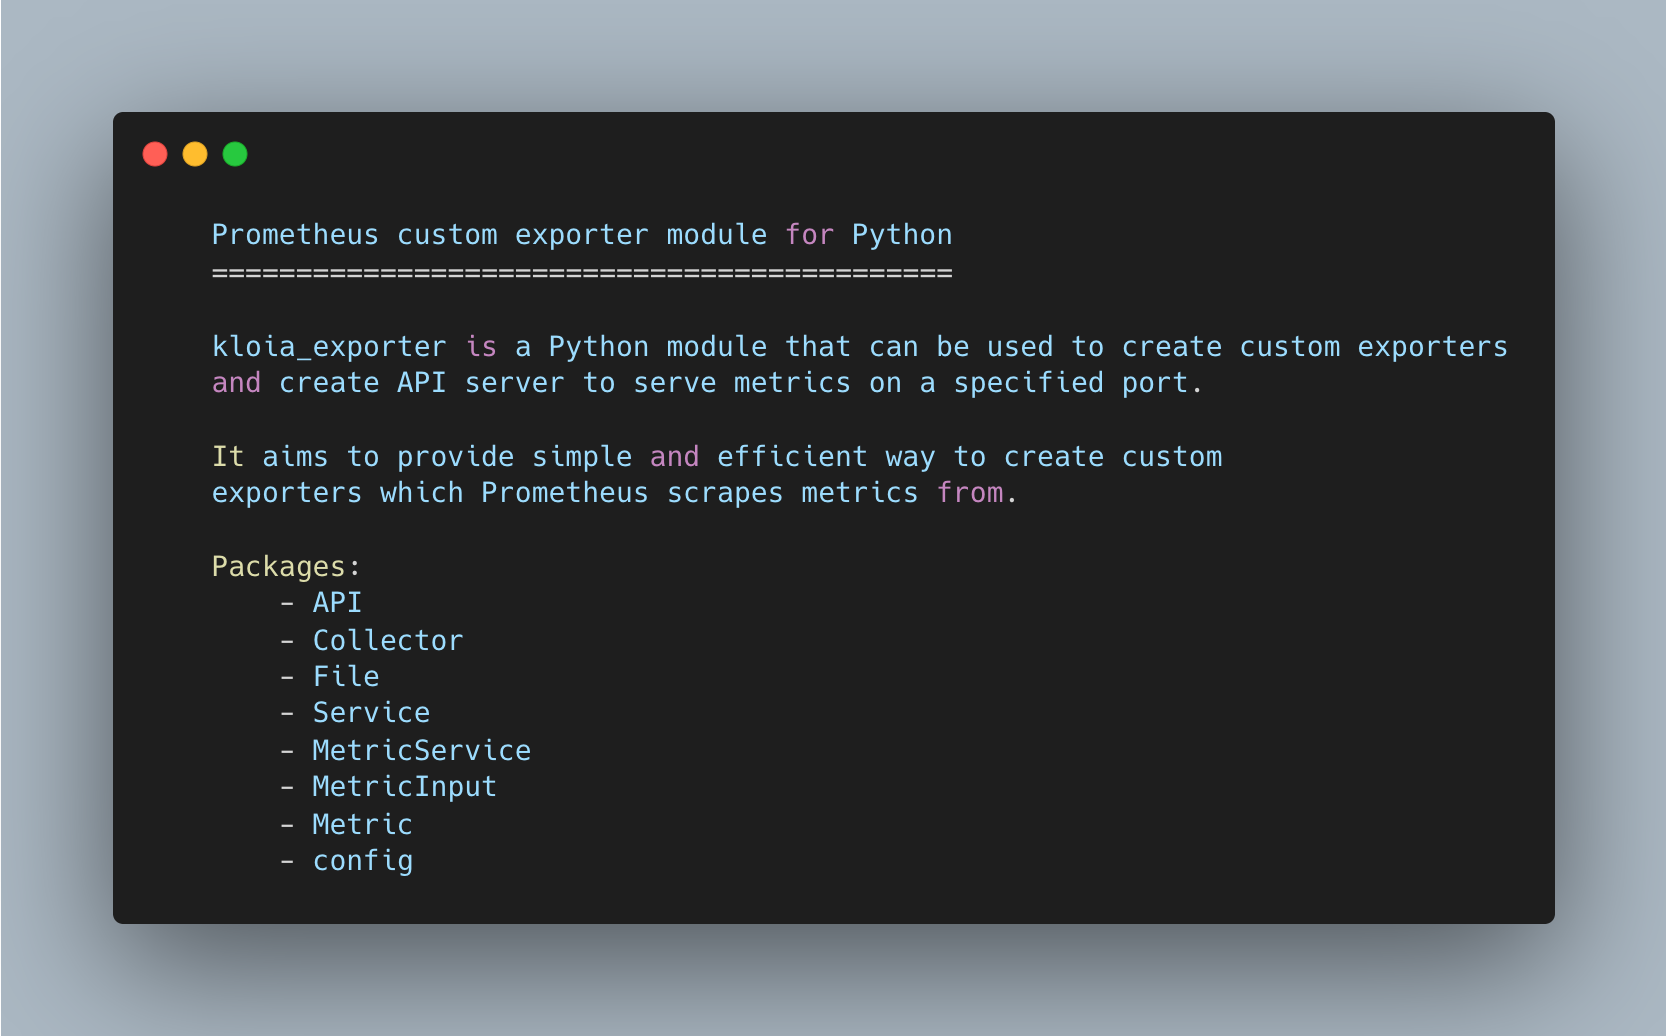
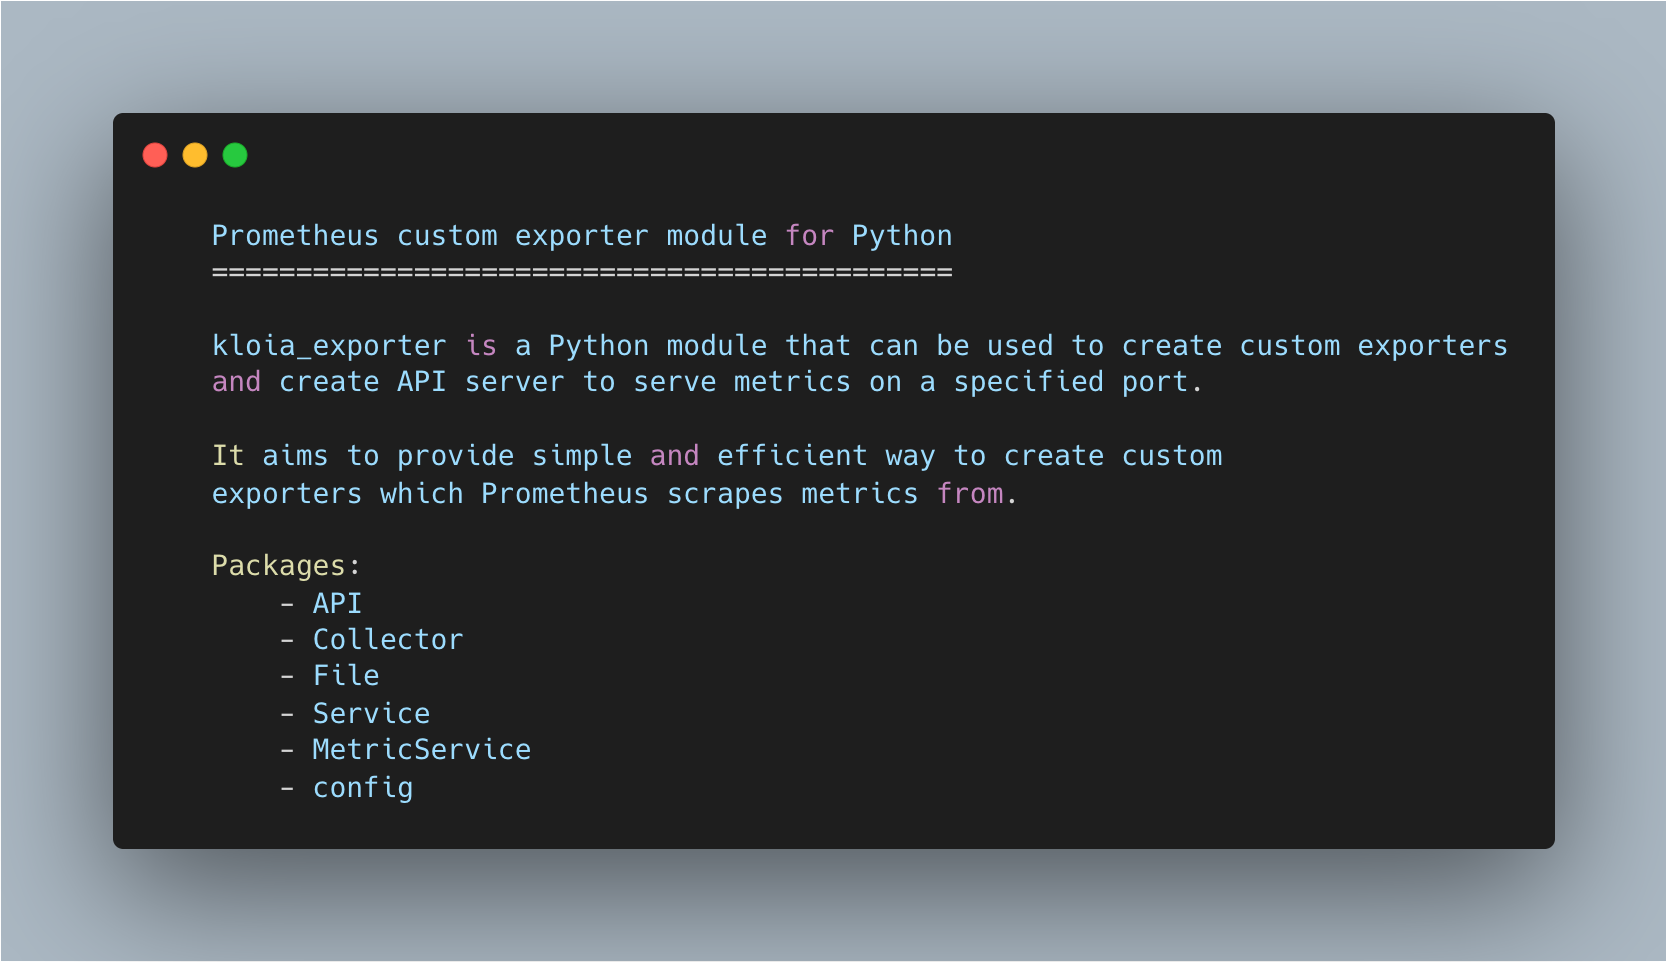
fix: change metric by time

diff --git a/kloia_exporter/collector.py b/kloia_exporter/collector.py
@@ -1,5 +1,5 @@
 import time
-from prometheus_client.core import REGISTRY
+from prometheus_client.core import REGISTRY, GaugeMetricFamily
 from prometheus_client import start_http_server
 
 
@@ -14,14 +14,12 @@ class API():
 
             Usage Example:
                 metric_inputs = [
-                    MetricInput(
-                        metricName="metricName",
-                        helpText="helpText",
-                        labels=["labelKey"],
-                        metrics=[
-                            Metric(labelValues=["labelValue"], value=10)
-                        ]
-                    )
+                    {
+                        "metricName": "metricName",
+                        "helpText": "helpText",
+                        "labels": ["labelKey"],
+                        "collect": lambda metricFamily: metricFamily.add_metric( ["labelValue"], 0 )
+                    }
                ]
                 API(8080, metric_inputs).listen()
 
@@ -51,15 +49,12 @@ class Collector(object):
 
             Usage Example:
                 metric_inputs = [
-                    MetricInput(
-                        metricName="metricName",
-                        helpText="helpText",
-                        labels=["labelKey"],
-                        metrics=[
-                            Metric(labelValues=["labelValue"], value=10)
-                        ]
-                    )
-
+                    {
+                        "metricName": "metricName",
+                        "helpText": "helpText",
+                        "labels": ["labelKey"],
+                        "collect": lambda metricFamily: metricFamily.add_metric( ["labelValue"], 0 )
+                    }
                ]
                 Collector(metric_inputs)
 
@@ -73,4 +68,6 @@ class Collector(object):
 
     def collect(self):
         for metric_input in self.metric_inputs:
-            yield metric_input.get_metric()
+            metricFamily = GaugeMetricFamily(metric_input["metricName"], metric_input["helpText"], labels=metric_input["labels"])
+            metric_input["collect"](metricFamily)
+            yield metricFamily

diff --git a/example/ansible/roles/test_exporter/files/lib/exporter.py b/example/ansible/roles/test_exporter/files/lib/exporter.py
@@ -1,18 +1,13 @@
 #!/usr/bin/env python
-from kloia_exporter import API, MetricInput, Metric
+from kloia_exporter import API
 
 metric_inputs = [
-    MetricInput(
-        metricName="metricName",
-        helpText="helpText",
-        labels=["labelsKey"],
-        metrics=[
-            Metric(
-                labelValues=["labelValue"],
-                value=10
-            )
-        ]
-    )
+    {
+        "metricName": "metricName",
+        "helpText": "helpText",
+        "labels": ["labelKey"],
+        "collect": lambda metricFamily: metricFamily.add_metric( ["labelValue"], 10 )
+    }
 ]
 
 API(9000, metric_inputs=metric_inputs).listen()

diff --git a/example/docker/exporter.py b/example/docker/exporter.py
@@ -1,18 +1,13 @@
 #!/usr/bin/env python
-from kloia_exporter import API, MetricInput, Metric
+from kloia_exporter import API
 
 metric_inputs = [
-    MetricInput(
-        metricName="metricName",
-        helpText="helpText",
-        labels=["labelsKey"],
-        metrics=[
-            Metric(
-                labelValues=["labelValue"],
-                value=10
-            )
-        ]
-    )
+    {
+        "metricName": "metricName",
+        "helpText": "helpText",
+        "labels": ["labelKey"],
+        "collect": lambda metricFamily: metricFamily.add_metric( ["labelValue"], 10 )
+    }
 ]
 
 API(9000, metric_inputs=metric_inputs).listen()

diff --git a/kloia_exporter/test_collector.py b/kloia_exporter/test_collector.py
@@ -1,15 +1,14 @@
 from unittest import mock, TestCase
-from kloia_exporter.metricInput import MetricInput, Metric
 from kloia_exporter.collector import Collector
 
 dummy_data = {
     "metric_inputs": [
-        MetricInput(
-            metricName="metricName",
-            helpText="helpText",
-            labels=["labelKey"],
-            metrics=[Metric(["labelValue"], 10)]
-        )
+        {
+            "metricName": "metricName",
+            "helpText": "helpText",
+            "labels": ["labelKey"],
+            "collect": lambda metricFamily: metricFamily.add_metric( ["labelValue"], 10 )
+        }
     ]
 }
 

diff --git a/kloia_exporter/__init__.py b/kloia_exporter/__init__.py
@@ -2,7 +2,6 @@ import kloia_exporter.config as config
 from kloia_exporter.collector import Collector, API
 from kloia_exporter.metricService import MetricService, File
 from kloia_exporter.service import Service
-from kloia_exporter.metricInput import MetricInput, Metric
 
 import kloia_exporter
 
@@ -23,7 +22,5 @@ kloia_exporter.__doc__ = """
         - File
         - Service
         - MetricService
-        - MetricInput
-        - Metric
         - config
 """

diff --git a/docs/dev.md b/docs/dev.md
@@ -7,3 +7,9 @@ Developers need to run this command on their host.
 ```
 pre-commit install
 ```
+
+## Test
+
+```
+python3 -m unittest discover -s $(pwd) -v -f -p "test_*.py"
+```
